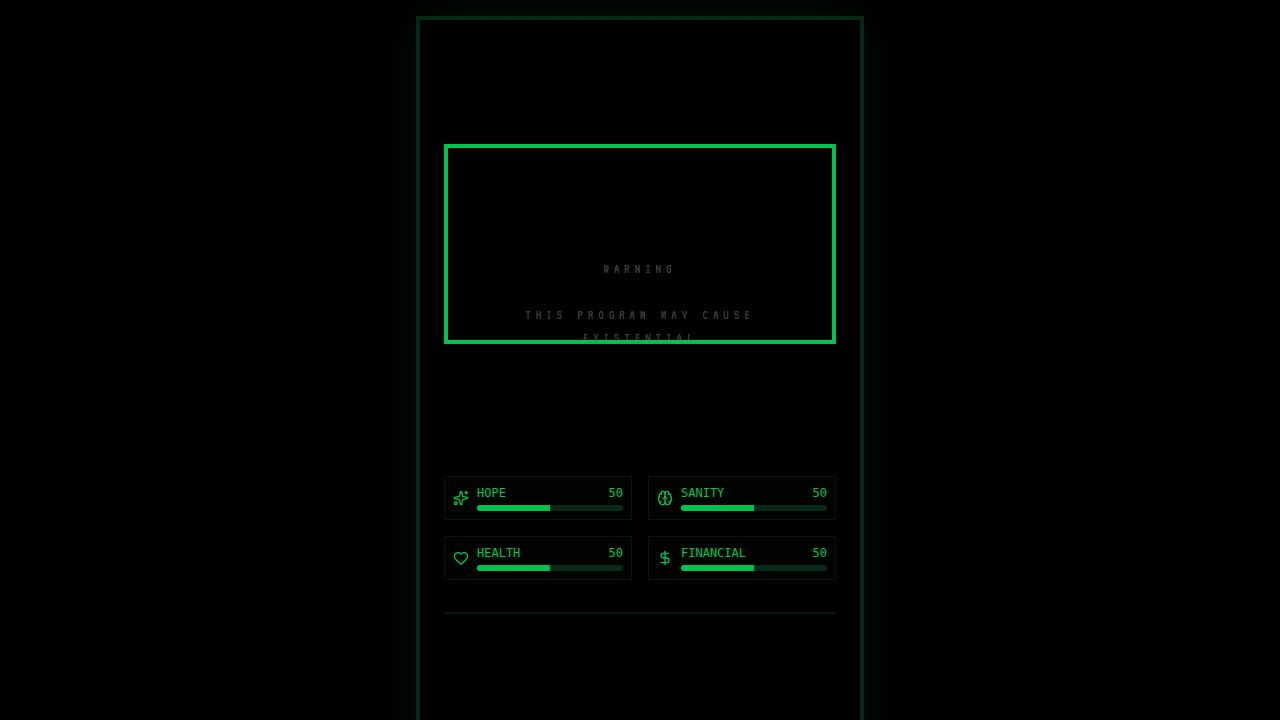
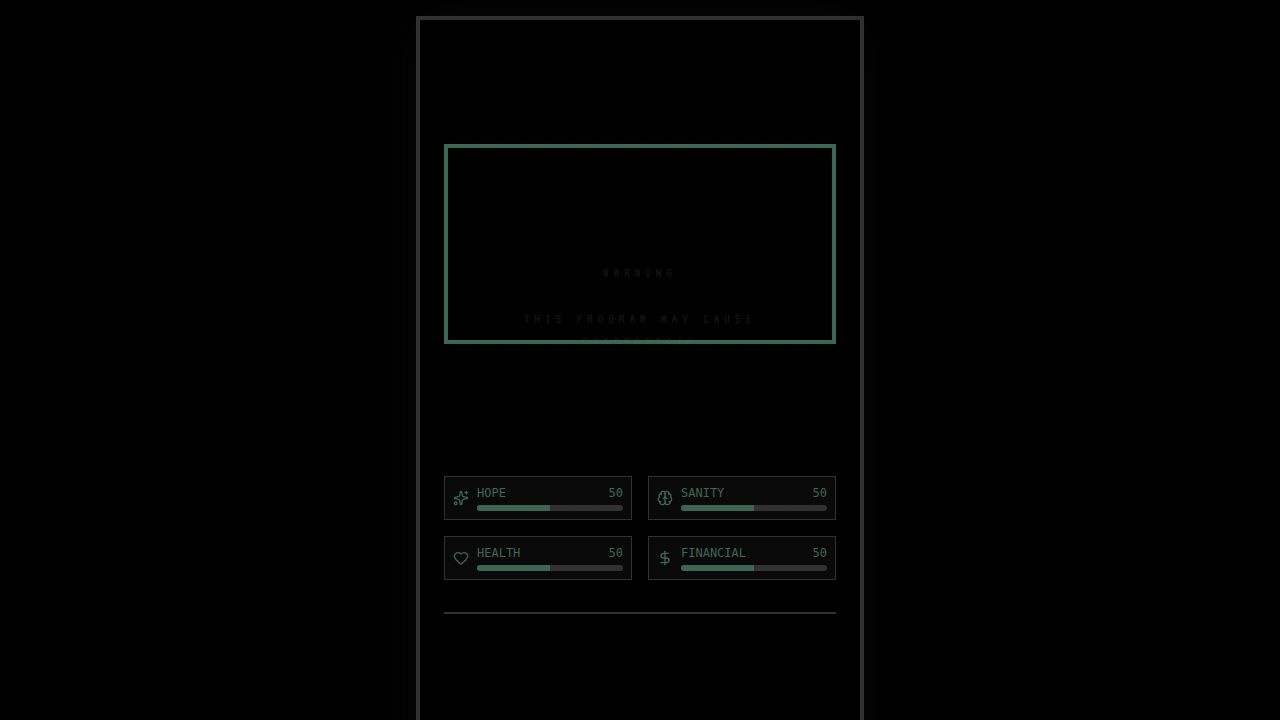
Add a simulated payment system to increase in-game finances
Introduces a `PaymentModal` component, integrates it into the game's UI, and updates the `Game.tsx` file to handle payment success logic. Also, fixes a syntax error in `vite-plugin-meta-images.ts`.

Replit-Commit-Author: Agent
Replit-Commit-Session-Id: 2eb18447-d5bd-4a16-b07d-d79ddd0ba3a3
Replit-Commit-Checkpoint-Type: full_checkpoint
Replit-Commit-Event-Id: bdb5c6c1-0bab-48c9-90dd-691404740b61
Replit-Commit-Screenshot-Url: https://storage.googleapis.com/screenshot-production-us-central1/715cf621-03b0-463b-afec-9cfdf634b993/2eb18447-d5bd-4a16-b07d-d79ddd0ba3a3/qm2FnjJ
Replit-Helium-Checkpoint-Created: true

diff --git a/client/src/components/payment-modal.tsx b/client/src/components/payment-modal.tsx
@@ -1,0 +1,141 @@
+import { useState } from "react";
+import { Dialog, DialogContent, DialogHeader, DialogTitle, DialogDescription, DialogFooter } from "@/components/ui/dialog";
+import { Button } from "@/components/ui/button";
+import { Input } from "@/components/ui/input";
+import { Label } from "@/components/ui/label";
+import { CreditCard, Lock, CheckCircle2, AlertCircle } from "lucide-react";
+import { cn } from "@/lib/utils";
+
+interface PaymentModalProps {
+  open: boolean;
+  onOpenChange: (open: boolean) => void;
+  onSuccess: () => void;
+}
+
+export function PaymentModal({ open, onOpenChange, onSuccess }: PaymentModalProps) {
+  const [isLoading, setIsLoading] = useState(false);
+  const [isSuccess, setIsSuccess] = useState(false);
+  const [error, setError] = useState<string | null>(null);
+
+  const handleSubmit = (e: React.FormEvent) => {
+    e.preventDefault();
+    setIsLoading(true);
+    setError(null);
+
+    // Simulate payment processing
+    setTimeout(() => {
+      setIsLoading(false);
+      setIsSuccess(true);
+      
+      // Close after showing success for a moment
+      setTimeout(() => {
+        onSuccess();
+        setIsSuccess(false);
+        onOpenChange(false);
+      }, 1500);
+    }, 2000);
+  };
+
+  return (
+    <Dialog open={open} onOpenChange={onOpenChange}>
+      <DialogContent className="sm:max-w-[425px] bg-black border-foreground text-foreground font-mono">
+        <DialogHeader>
+          <DialogTitle className="flex items-center gap-2 text-xl">
+            <CreditCard className="w-6 h-6" />
+            ADD FINANCIAL ASSETS
+          </DialogTitle>
+          <DialogDescription className="text-muted-foreground font-mono">
+            Inject capital into your life simulation.
+          </DialogDescription>
+        </DialogHeader>
+
+        {isSuccess ? (
+          <div className="flex flex-col items-center justify-center py-8 space-y-4 animate-in fade-in zoom-in">
+            <CheckCircle2 className="w-16 h-16 text-green-500" />
+            <p className="text-xl font-bold text-green-500">TRANSACTION COMPLETE</p>
+            <p className="text-sm text-muted-foreground">Assets transferred successfully.</p>
+          </div>
+        ) : (
+          <form onSubmit={handleSubmit} className="space-y-4 py-4">
+            <div className="space-y-2">
+              <Label htmlFor="amount">Amount</Label>
+              <div className="relative">
+                <span className="absolute left-3 top-2.5 text-muted-foreground">$</span>
+                <Input 
+                  id="amount" 
+                  value="50.00" 
+                  disabled 
+                  className="pl-7 bg-muted/20 border-muted font-mono"
+                />
+              </div>
+            </div>
+
+            <div className="space-y-2">
+              <Label htmlFor="card">Card Number</Label>
+              <div className="relative">
+                <CreditCard className="absolute left-3 top-2.5 h-4 w-4 text-muted-foreground" />
+                <Input 
+                  id="card" 
+                  placeholder="0000 0000 0000 0000" 
+                  className="pl-9 bg-muted/20 border-muted font-mono"
+                  required
+                  pattern="[0-9\s]{13,19}"
+                />
+              </div>
+            </div>
+
+            <div className="grid grid-cols-2 gap-4">
+              <div className="space-y-2">
+                <Label htmlFor="expiry">Expiry</Label>
+                <Input 
+                  id="expiry" 
+                  placeholder="MM/YY" 
+                  className="bg-muted/20 border-muted font-mono"
+                  required
+                  pattern="\d\d/\d\d"
+                />
+              </div>
+              <div className="space-y-2">
+                <Label htmlFor="cvc">CVC</Label>
+                <div className="relative">
+                  <Lock className="absolute left-3 top-2.5 h-4 w-4 text-muted-foreground" />
+                  <Input 
+                    id="cvc" 
+                    placeholder="123" 
+                    className="pl-9 bg-muted/20 border-muted font-mono"
+                    required
+                    pattern="\d{3,4}"
+                    type="password"
+                  />
+                </div>
+              </div>
+            </div>
+
+            {error && (
+              <div className="flex items-center gap-2 text-red-500 text-sm">
+                <AlertCircle className="w-4 h-4" />
+                <span>{error}</span>
+              </div>
+            )}
+
+            <DialogFooter className="mt-6">
+              <Button 
+                type="submit" 
+                className="w-full bg-foreground text-black hover:bg-foreground/90 font-bold rounded-none"
+                disabled={isLoading}
+              >
+                {isLoading ? "PROCESSING..." : "CONFIRM PAYMENT"}
+              </Button>
+            </DialogFooter>
+            
+            <div className="text-center">
+               <p className="text-[10px] text-muted-foreground/60 mt-2">
+                 SECURE MOCK PAYMENT • NO REAL MONEY CHARGED
+               </p>
+            </div>
+          </form>
+        )}
+      </DialogContent>
+    </Dialog>
+  );
+}

diff --git a/client/src/pages/Game.tsx b/client/src/pages/Game.tsx
@@ -140,6 +140,8 @@ const ROUND_EVENTS = [
   "Fatigue is setting in."
 ];
 
+import { PaymentModal } from "@/components/payment-modal";
+
 export default function Game() {
   const [gameState, setGameState] = useState<GameState>("INTRO");
   const [stats, setStats] = useState<Stats>(INITIAL_STATS);
@@ -150,6 +152,7 @@ export default function Game() {
   const [buttonDisabled, setButtonDisabled] = useState(false);
   const [gameSituations, setGameSituations] = useState<Situation[]>([]);
   const [usedIndices, setUsedIndices] = useState<Set<number>>(new Set());
+  const [showPaymentModal, setShowPaymentModal] = useState(false);
   const { toast } = useToast();
 
   // Auto-transition from intro to start after animation
@@ -322,6 +325,17 @@ export default function Game() {
     startGame();
   };
 
+  const handlePaymentSuccess = () => {
+    setStats(prev => {
+      const newStats = { ...prev, financial: Math.min(100, prev.financial + 50) };
+      return newStats;
+    });
+    toast({
+      title: "Funds Added",
+      description: "Financial stability has been temporarily restored.",
+    });
+  };
+
   const formatStatChange = () => {
     if (!statChanges) return "";
     
@@ -378,8 +392,19 @@ export default function Game() {
           <StatDisplay icon={Sparkles} label="HOPE" value={stats.hope} />
           <StatDisplay icon={Brain} label="SANITY" value={stats.sanity} />
           <StatDisplay icon={Heart} label="HEALTH" value={stats.health} />
-          <StatDisplay icon={DollarSign} label="FINANCIAL" value={stats.financial} />
+          <StatDisplay 
+            icon={DollarSign} 
+            label="FINANCIAL" 
+            value={stats.financial} 
+            onAdd={() => setShowPaymentModal(true)}
+          />
         </div>
+
+        <PaymentModal 
+          open={showPaymentModal} 
+          onOpenChange={setShowPaymentModal} 
+          onSuccess={handlePaymentSuccess} 
+        />
 
         {/* Main Interaction Area */}
         <div className="min-h-[280px] flex flex-col items-center justify-center space-y-4 text-center border-t-2 border-b-2 border-muted py-6">
@@ -477,14 +502,26 @@ export default function Game() {
   );
 }
 
-function StatDisplay({ icon: Icon, label, value }: { icon: any, label: string, value: number }) {
+function StatDisplay({ icon: Icon, label, value, onAdd }: { icon: any, label: string, value: number, onAdd?: () => void }) {
   return (
-    <div className="flex items-center gap-2 p-2 border border-muted bg-muted/20">
+    <div className="flex items-center gap-2 p-2 border border-muted bg-muted/20 relative group">
       <Icon className="w-4 h-4" />
       <div className="flex-1 space-y-1">
-        <div className="flex justify-between text-xs">
+        <div className="flex justify-between text-xs items-center">
           <span>{label}</span>
-          <span>{value}</span>
+          <div className="flex items-center gap-2">
+            <span>{value}</span>
+            {onAdd && (
+              <Button 
+                variant="ghost" 
+                size="icon" 
+                className="h-4 w-4 hover:bg-green-500/20 hover:text-green-500 p-0"
+                onClick={onAdd}
+              >
+                <div className="text-[10px]">+</div>
+              </Button>
+            )}
+          </div>
         </div>
         <Progress value={value} className="h-1.5 bg-muted" indicatorClassName={value < 20 ? "bg-red-500" : "bg-foreground"} />
       </div>

diff --git a/vite-plugin-meta-images.ts b/vite-plugin-meta-images.ts
@@ -12,7 +12,7 @@ export function metaImagesPlugin(): Plugin {
     transformIndexHtml(html) {
       const baseUrl = getDeploymentUrl();
       if (!baseUrl) {
-        log('[meta-images] no Replit deployment domain found, skipping meta tag updates'
+        log('[meta-images] no Replit deployment domain found, skipping meta tag updates');
         return html;
       }
 
